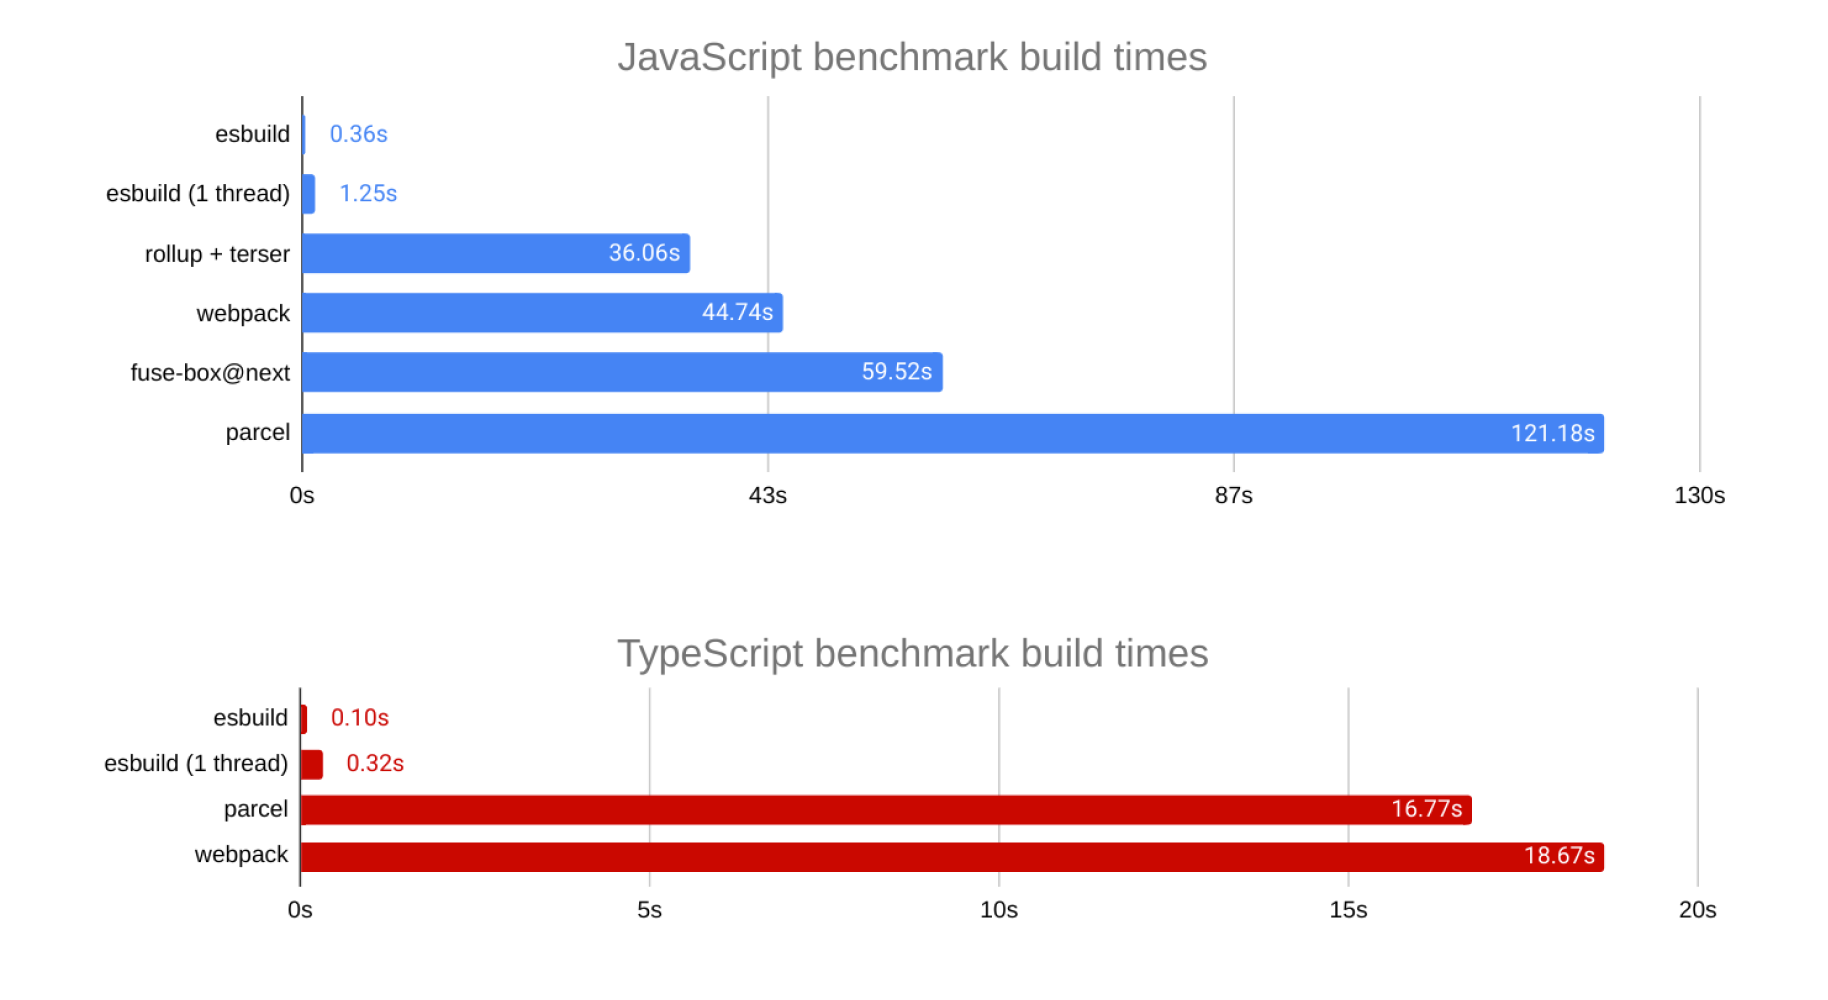
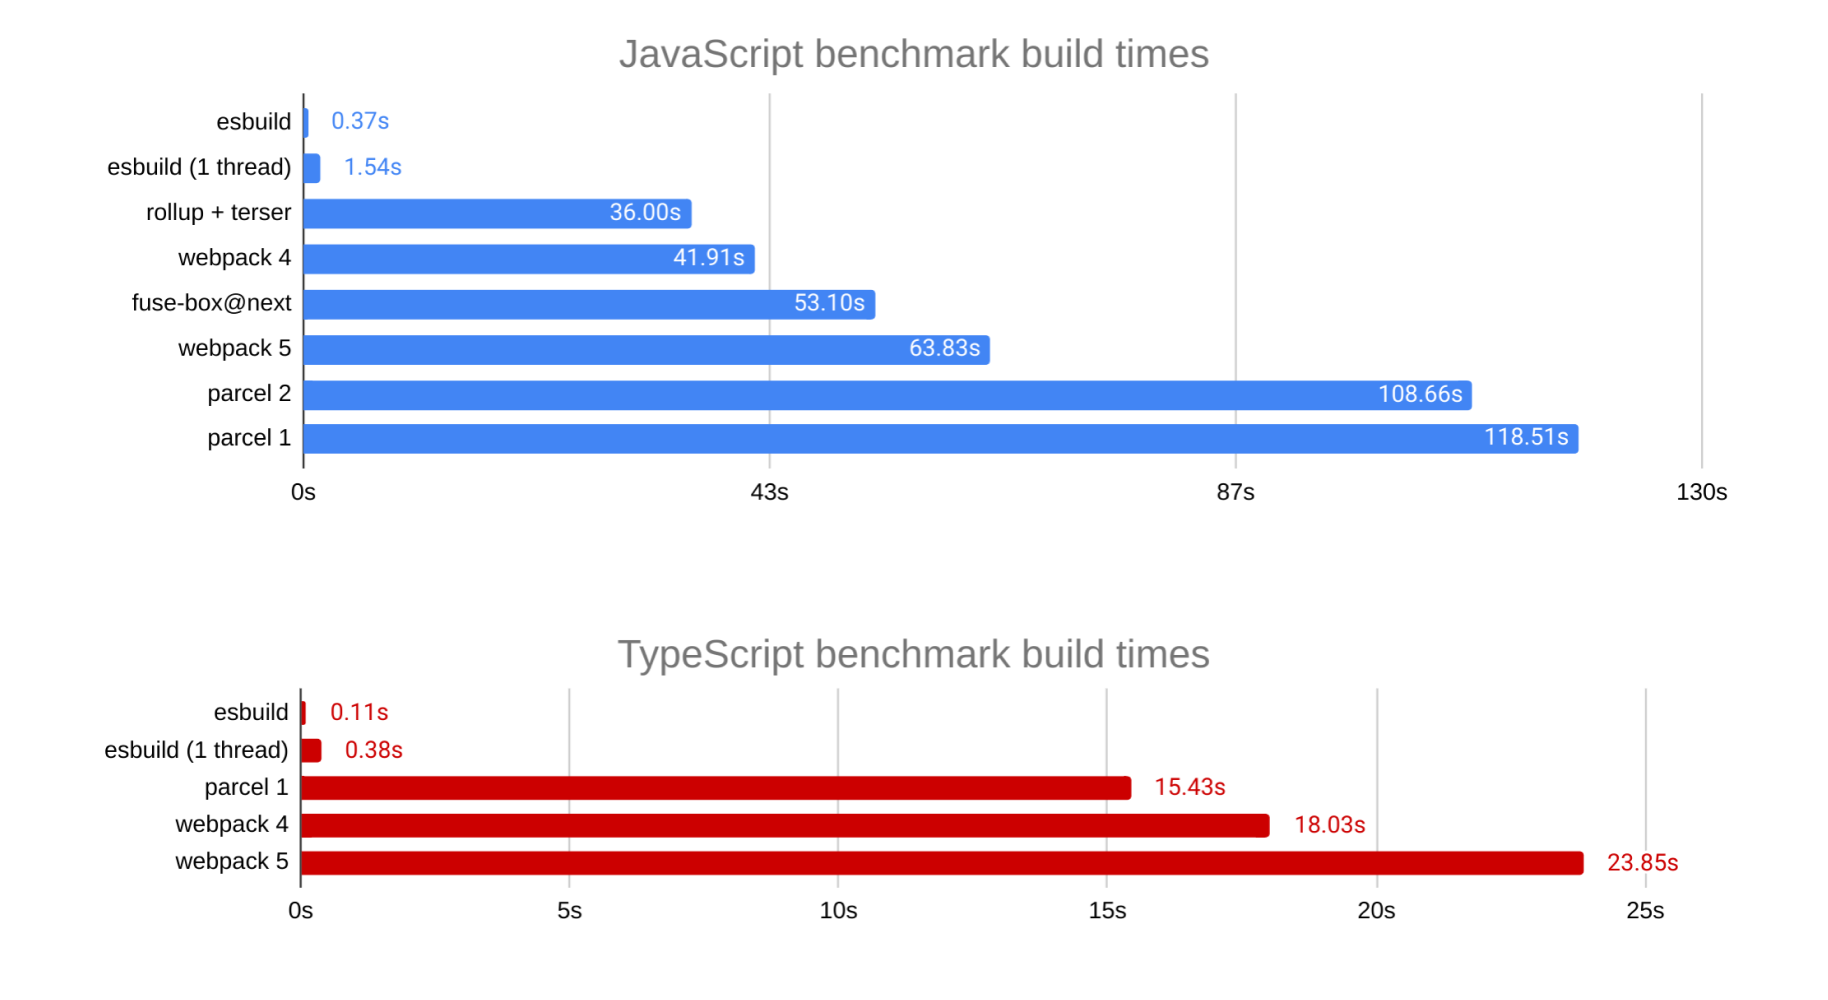
update the benchmark results

diff --git a/README.md b/README.md
@@ -19,7 +19,7 @@ Why build another JavaScript build tool? The current build tools for the web are
 
 The use case I have in mind is packaging a large codebase for production. This includes minifying the code, which reduces network transfer time, and producing source maps, which are important for debugging errors in production. Ideally the build tool should also build quickly without having to warm up a cache first.
 
-I currently have two benchmarks that I'm using to measure esbuild performance. For these benchmarks, esbuild is at least **100x faster** than the other JavaScript bundlers I tested:
+I currently have two benchmarks that I'm using to measure esbuild performance. For these benchmarks, esbuild is at least **10-100x faster** than the other JavaScript bundlers I tested:
 
 ![](images/benchmark.png)
 
@@ -31,18 +31,21 @@ Here are the details about each benchmark:
 
     | Bundler            |    Time | Relative slowdown | Absolute speed | Output size |
     | :----------------- | ------: | ----------------: | -------------: | ----------: |
-    | esbuild            |   0.36s |                1x |  1520.7 kloc/s |      5.82mb |
-    | esbuild (1 thread) |   1.25s |                4x |   438.0 kloc/s |      5.82mb |
-    | rollup + terser    |  36.06s |              100x |    15.2 kloc/s |      5.80mb |
-    | webpack            |  44.74s |              124x |    12.2 kloc/s |      5.97mb |
-    | fuse-box@next      |  59.52s |              165x |     9.2 kloc/s |      6.34mb |
-    | parcel             | 121.18s |              337x |     4.5 kloc/s |      5.89mb |
+    | esbuild            |   0.37s |                1x |  1479.6 kloc/s |      5.81mb |
+    | esbuild (1 thread) |   1.54s |                4x |   355.5 kloc/s |      5.81mb |
+    | rollup + terser    |  36.00s |               97x |    15.2 kloc/s |      5.81mb |
+    | webpack 4          |  41.91s |              113x |    13.1 kloc/s |      5.97mb |
+    | fuse-box@next      |  53.10s |              144x |    10.3 kloc/s |      6.34mb |
+    | webpack 5          |  63.83s |              173x |     8.6 kloc/s |      5.84mb |
+    | parcel 2           | 108.66s |              294x |     5.0 kloc/s |      5.81mb |
+    | parcel 1           | 118.51s |              320x |     4.6 kloc/s |      5.89mb |
 
     Each time reported is the best of three runs. I'm running esbuild with `--bundle --minify --sourcemap` (the single-threaded version uses `GOMAXPROCS=1`). I used the `rollup-plugin-terser` plugin because Rollup itself doesn't support minification. Webpack uses `--mode=production --devtool=sourcemap`. Parcel uses the default options. FuseBox is configured with `useSingleBundle: true`. Absolute speed is based on the total line count including comments and blank lines, which is currently 547,441. The tests were done on a 6-core 2019 MacBook Pro with 16gb of RAM.
 
     Caveats:
 
     * Parcel: The bundle crashes at run time with `TypeError: Cannot redefine property: dynamic`
+    * Parcel 2: Must be given extra memory with `node --max-old-space-size` or it runs out of memory
     * FuseBox: The line numbers in source maps appear to be off by one
 
 * #### TypeScript benchmark
@@ -51,14 +54,15 @@ Here are the details about each benchmark:
 
     | Bundler            |    Time | Relative slowdown | Absolute speed | Output size |
     | :----------------- | ------: | ----------------: | -------------: | ----------: |
-    | esbuild            |   0.10s |                1x |  1287.5 kloc/s |      0.98mb |
-    | esbuild (1 thread) |   0.32s |                3x |   412.0 kloc/s |      0.98mb |
-    | parcel             |  16.77s |              168x |     7.9 kloc/s |      1.55mb |
-    | webpack            |  18.67s |              187x |     7.1 kloc/s |      1.26mb |
+    | esbuild            |   0.11s |                1x |  1198.5 kloc/s |      0.98mb |
+    | esbuild (1 thread) |   0.38s |                3x |   346.9 kloc/s |      0.98mb |
+    | parcel 1           |  15.43s |              140x |     8.5 kloc/s |      1.55mb |
+    | webpack 4          |  18.03s |              164x |     7.3 kloc/s |      1.26mb |
+    | webpack 5          |  23.85s |              217x |     5.5 kloc/s |      1.26mb |
 
     Each time reported is the best of three runs. I'm running esbuild with `--bundle --minify --sourcemap --platform=node` (the single-threaded version uses `GOMAXPROCS=1`). Webpack uses `ts-loader` with `transpileOnly: true` and `--mode=production --devtool=sourcemap`. Parcel uses `--target node --bundle-node-modules`. Absolute speed is based on the total line count including comments and blank lines, which is currently 131,836. The tests were done on a 6-core 2019 MacBook Pro with 16gb of RAM.
 
-    The results don't include Rollup because I couldn't get it to work. I tried `rollup-plugin-typescript`, `@rollup/plugin-typescript`, and `@rollup/plugin-sucrase` and they all didn't work for different reasons relating to TypeScript compilation. And I'm not familiar with FuseBox so I'm not sure how work around build failures due to the use of builtin node modules.
+    The results don't include Rollup because I couldn't get it to work. I tried `rollup-plugin-typescript`, `@rollup/plugin-typescript`, and `@rollup/plugin-sucrase` and they all didn't work for different reasons relating to TypeScript compilation. And I'm not familiar with FuseBox so I'm not sure how work around build failures due to the use of builtin node modules. Parcel 2 is excluded because it cannot currently build the benchmark.
 
 ## Why is it fast?
 
